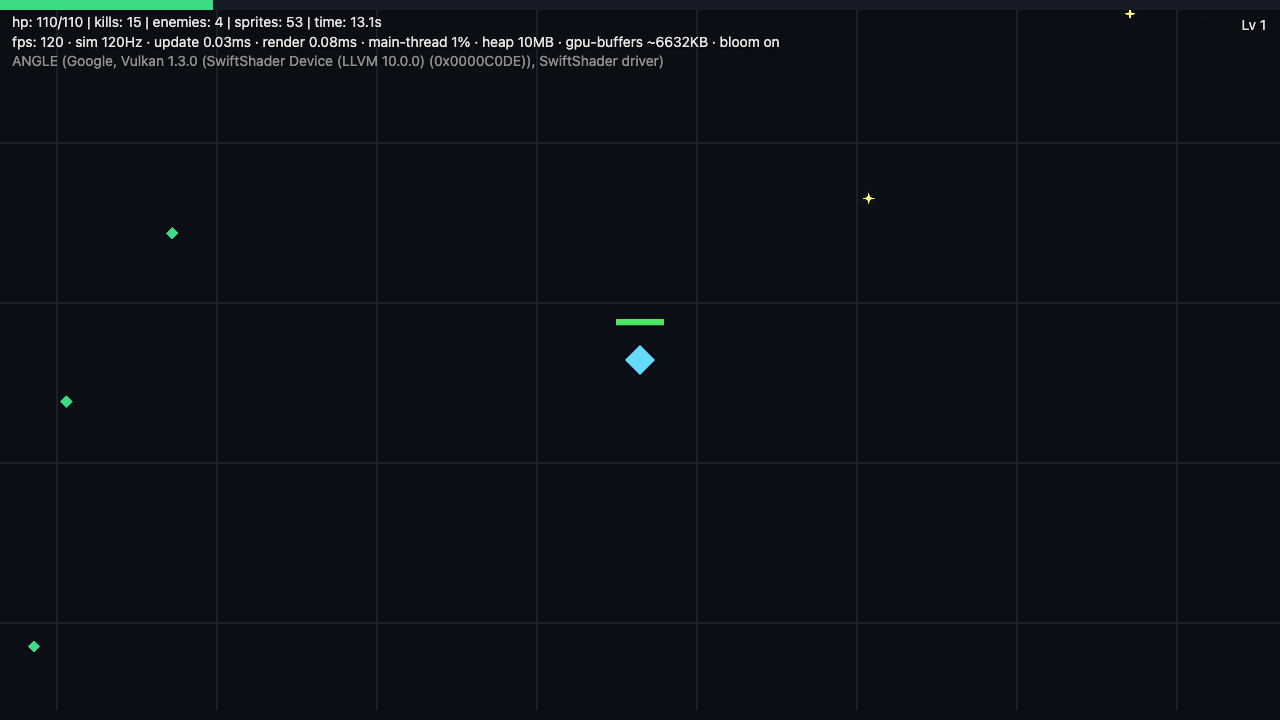
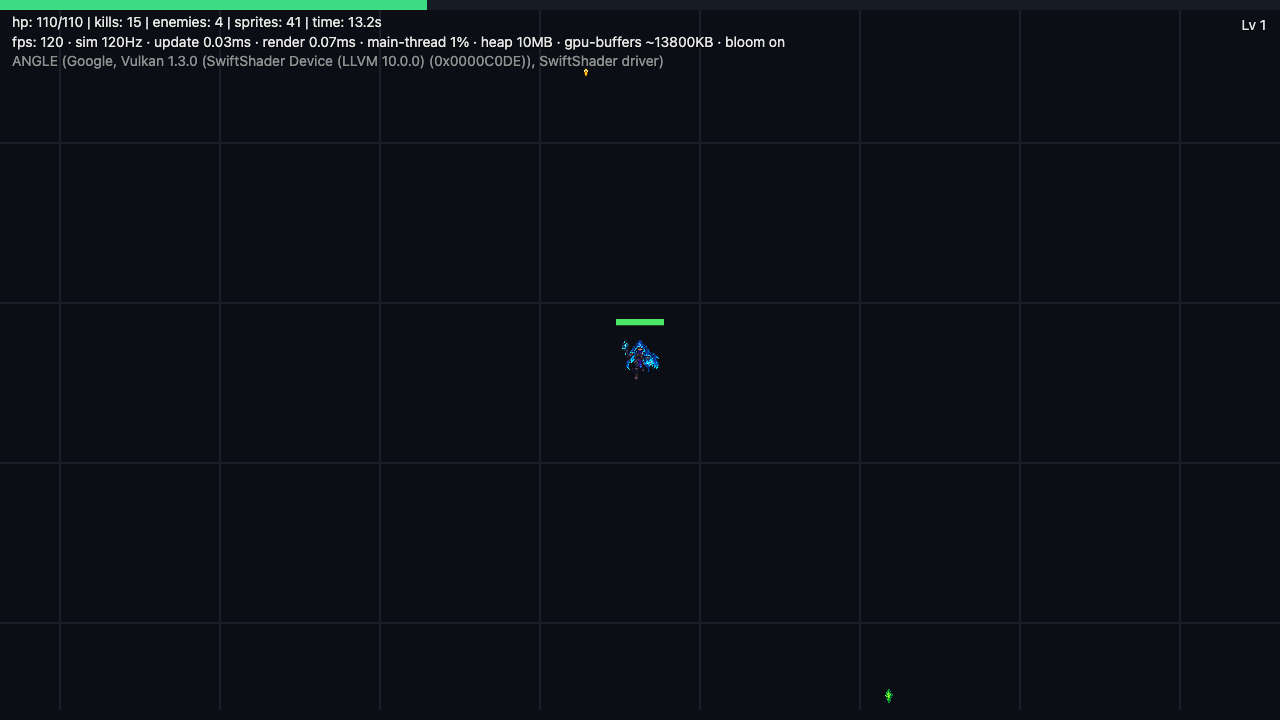
Integrate AI-generated sprite art: 2048x1024 atlas with async sprite tiles, procedural fallback preserved

Changed region(s): [[0.1562, 0.0, 0.625, 0.0917], [0.4688, 0.4583, 0.5312, 0.5194]]

diff --git a/src/engine/renderer.ts b/src/engine/renderer.ts
@@ -13,10 +13,12 @@ export interface SpriteInstance {
   flash?: number;
 }
 
-const ATLAS = 512;
+const ATLAS_W = 2048;
+const ATLAS_H = 1024;
+const TILE = 256;
 
 function rect(x: number, y: number, w: number, h: number): UVRect {
-  return [x / ATLAS, y / ATLAS, w / ATLAS, h / ATLAS];
+  return [x / ATLAS_W, y / ATLAS_H, w / ATLAS_W, h / ATLAS_H];
 }
 
 export const UV = {
@@ -28,12 +30,27 @@ export const UV = {
   digit: (d: number): UVRect => rect(d * 40, 96, 40, 64),
 };
 
+function spriteSlots(): { x: number; y: number }[] {
+  const slots: { x: number; y: number }[] = [];
+  for (let y = 0; y < ATLAS_H; y += TILE) {
+    for (let x = 0; x < ATLAS_W; x += TILE) {
+      if (x < 512 && y < 512) continue;
+      slots.push({ x, y });
+    }
+  }
+  return slots;
+}
+
 function buildAtlas(): HTMLCanvasElement {
   const c = document.createElement("canvas");
-  c.width = ATLAS;
-  c.height = ATLAS;
+  c.width = ATLAS_W;
+  c.height = ATLAS_H;
   const ctx = c.getContext("2d")!;
+  drawProceduralTiles(ctx);
+  return c;
+}
 
+function drawProceduralTiles(ctx: CanvasRenderingContext2D) {
   ctx.fillStyle = "#fff";
   ctx.fillRect(0, 0, 64, 64);
 
@@ -77,8 +94,6 @@ function buildAtlas(): HTMLCanvasElement {
   for (let d = 0; d <= 9; d++) {
     ctx.fillText(String(d), d * 40 + 20, 96 + 32);
   }
-
-  return c;
 }
 
 const VERT = `#version 300 es
@@ -191,6 +206,8 @@ export class Renderer {
   private bloomA: PostTarget | null = null;
   private bloomB: PostTarget | null = null;
   private atlasTex: WebGLTexture | null = null;
+  private atlasCanvas: HTMLCanvasElement | null = null;
+  private spriteUVs = new Map<string, UVRect>();
   readonly bloomEnabled: boolean;
   readonly gpuName: string;
 
@@ -239,6 +256,7 @@ export class Renderer {
 
     const tex = gl.createTexture()!;
     this.atlasTex = tex;
+    this.atlasCanvas = buildAtlas();
     gl.bindTexture(gl.TEXTURE_2D, tex);
     gl.texImage2D(
       gl.TEXTURE_2D,
@@ -246,7 +264,7 @@ export class Renderer {
       gl.RGBA,
       gl.RGBA,
       gl.UNSIGNED_BYTE,
-      buildAtlas()
+      this.atlasCanvas
     );
     gl.texParameteri(gl.TEXTURE_2D, gl.TEXTURE_MIN_FILTER, gl.LINEAR);
     gl.texParameteri(gl.TEXTURE_2D, gl.TEXTURE_MAG_FILTER, gl.LINEAR);
@@ -347,6 +365,54 @@ export class Renderer {
       this.bloomA = this.createTarget(bw, bh);
       this.bloomB = this.createTarget(bw, bh);
     }
+  }
+
+  spriteUV(name: string): UVRect | undefined {
+    return this.spriteUVs.get(name);
+  }
+
+  async loadSprites(
+    manifest: { name: string; url: string }[]
+  ): Promise<number> {
+    const canvas = this.atlasCanvas;
+    if (!canvas) return 0;
+    const ctx = canvas.getContext("2d")!;
+    const slots = spriteSlots();
+    let loaded = 0;
+
+    await Promise.all(
+      manifest.map(
+        (entry, i) =>
+          new Promise<void>((resolve) => {
+            const img = new Image();
+            img.onload = () => {
+              const slot = slots[i];
+              if (!slot) return resolve();
+              ctx.clearRect(slot.x, slot.y, TILE, TILE);
+              ctx.drawImage(img, slot.x, slot.y, TILE, TILE);
+              this.spriteUVs.set(entry.name, rect(slot.x, slot.y, TILE, TILE));
+              loaded++;
+              resolve();
+            };
+            img.onerror = () => resolve();
+            img.src = entry.url;
+          })
+      )
+    );
+
+    if (loaded > 0) {
+      const gl = this.gl;
+      gl.bindTexture(gl.TEXTURE_2D, this.atlasTex);
+      gl.texImage2D(
+        gl.TEXTURE_2D,
+        0,
+        gl.RGBA,
+        gl.RGBA,
+        gl.UNSIGNED_BYTE,
+        canvas
+      );
+    }
+    return loaded;
   }
 
   resize() {
@@ -488,7 +554,7 @@ export class Renderer {
   }
 
   get vramBytes() {
-    let bytes = this.data.byteLength + 32 + ATLAS * ATLAS * 4;
+    let bytes = this.data.byteLength + 32 + ATLAS_W * ATLAS_H * 4;
     for (const t of [this.sceneTarget, this.bloomA, this.bloomB]) {
       if (t) bytes += t.width * t.height * 4;
     }

diff --git a/src/main.ts b/src/main.ts
@@ -26,6 +26,18 @@ const desktop = window.desktopRuntime;
 const allWeapons = weaponDefs as WeaponDef[];
 const audio = new AudioEngine();
 
+const enemySpriteName = (def: EnemyDef) =>
+  def.boss ? `boss-${def.id}` : def.id;
+const spriteNames = [
+  "player",
+  "gem",
+  "bolt",
+  ...(enemyDefs as EnemyDef[]).map(enemySpriteName),
+];
+void renderer.loadSprites(
+  spriteNames.map((name) => ({ name, url: `sprites/${name}.png` }))
+);
+
 type State = "menu" | "playing" | "paused" | "draft" | "gameover" | "victory";
 let state: State = "menu";
 let settingsReturn: "menu" | "paused" = "menu";
@@ -270,16 +282,17 @@ startLoop(
 
       const flash =
         world.invuln > 0 ? 0.45 + 0.35 * Math.sin(world.time * 40) : 1;
+      const playerUV = renderer.spriteUV("player");
       renderer.push({
         x: world.playerX,
         y: world.playerY,
-        w: 34,
-        h: 34,
-        r: 0.4,
-        g: 0.85,
-        b: 1,
+        w: 44,
+        h: 44,
+        r: playerUV ? 1 : 0.4,
+        g: playerUV ? 1 : 0.85,
+        b: playerUV ? 1 : 1,
         a: flash,
-        uv: UV.diamond,
+        uv: playerUV ?? UV.diamond,
       });
 
       const barW = 48;
@@ -305,22 +318,24 @@ startLoop(
         a: 1,
       });
 
+      const gemUV = renderer.spriteUV("gem");
       for (const g2 of world.gems) {
         renderer.push({
           x: g2.x,
           y: g2.y,
-          w: 14,
-          h: 14,
-          r: 0.24,
-          g: 0.86,
-          b: 0.52,
+          w: 18,
+          h: 18,
+          r: gemUV ? 1 : 0.24,
+          g: gemUV ? 1 : 0.86,
+          b: gemUV ? 1 : 0.52,
           a: 1,
-          uv: UV.diamond,
+          uv: gemUV ?? UV.diamond,
         });
       }
 
       for (const e of world.enemies) {
-        const [r, g, b] = e.def.color;
+        const sprite = renderer.spriteUV(enemySpriteName(e.def));
+        const [r, g, b] = sprite ? [1, 1, 1] : e.def.color;
         renderer.push({
           x: e.x,
           y: e.y,
@@ -330,7 +345,7 @@ startLoop(
           g,
           b,
           a: 1,
-          uv: UV.circle,
+          uv: sprite ?? UV.circle,
           flash: e.flash > 0 ? e.flash / 0.18 : 0,
         });
       }
@@ -353,17 +368,18 @@ startLoop(
         }
       }
 
+      const boltUV = renderer.spriteUV("bolt");
       for (const p of world.projectiles) {
         renderer.push({
           x: p.x,
           y: p.y,
           w: p.size,
           h: p.size,
-          r: 1,
-          g: 0.95,
-          b: 0.5,
+          r: boltUV ? 1 : 1,
+          g: boltUV ? 1 : 0.95,
+          b: boltUV ? 1 : 0.5,
           a: 1,
-          uv: UV.spark,
+          uv: boltUV ?? UV.spark,
         });
       }
 
